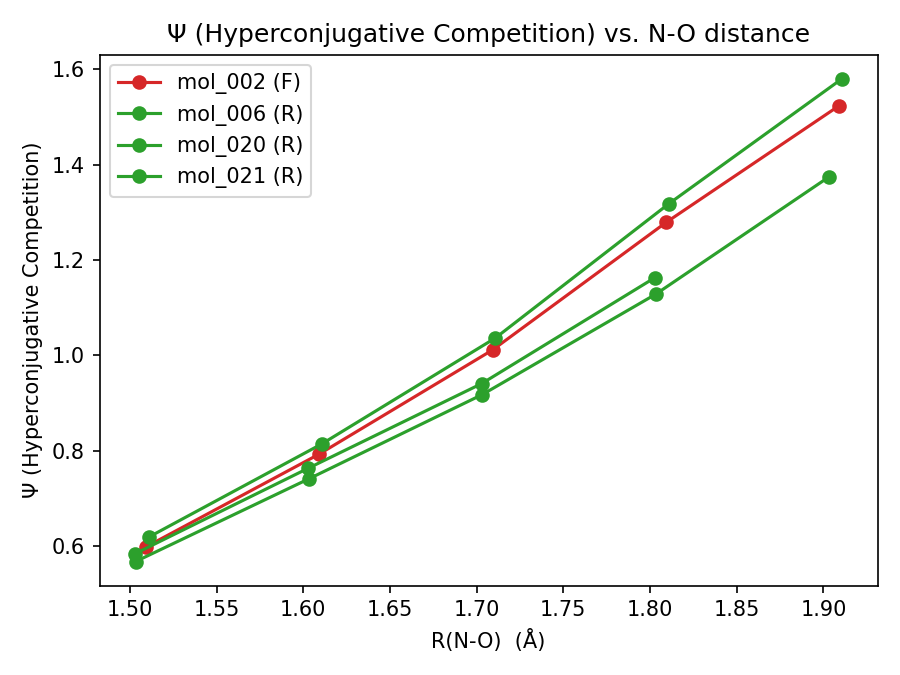
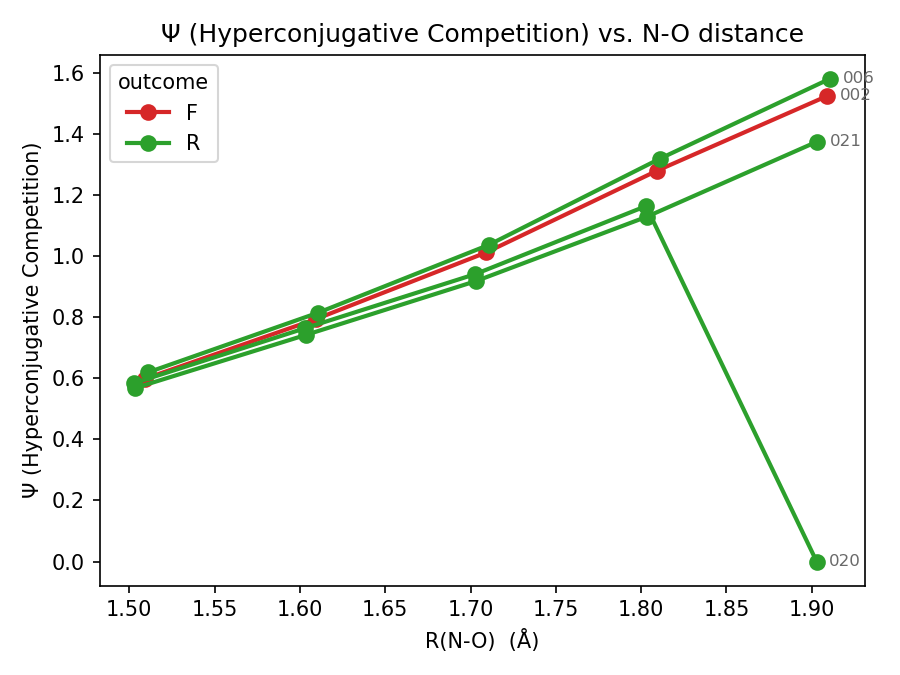
added mol_020 to plots

diff --git a/scripts/analysis/summarize_descriptors.py b/scripts/analysis/summarize_descriptors.py
@@ -18,7 +18,7 @@ from pathlib import Path
 import matplotlib.pyplot as plt
 
 from beckmann.config import DATA_INPUT, DATA_OUTPUT
-from beckmann.dft.descriptors import SERIES_STAGES
+from beckmann.dft.descriptors import resolve_series
 
 ANALYSIS_DIR = DATA_OUTPUT / "analysis"
 PLOTS_DIR    = ANALYSIS_DIR / "plots"
@@ -31,6 +31,10 @@ LABELS = {
     "w17max": "w17max  (rearrangement channel)",
     "w78max": "w78max  (fragmentation channel)",
 }
+# Color still encodes experimental outcome (R vs F) rather than substrate identity --
+# with dozens of substrates eventually, a distinct hue per line stops scaling long
+# before a 2-color R/F split does. Individual lines are told apart by a direct label
+# at the endpoint instead (see main()), not by color.
 OUTCOME_COLOR = {"R": "tab:green", "F": "tab:red"}
 
 
@@ -48,7 +52,7 @@ def _float_or_none(v):
 def load_series(mol: str, channel_rows: list[dict]) -> tuple[list[float], dict[str, list[float | None]]]:
     """R(N-O) values and per-descriptor y-values for the 5-point series, in SERIES_STAGES order."""
     by_stage = {row["stage"]: row for row in channel_rows if row["mol"] == mol}
-    series = [by_stage[s] for s in SERIES_STAGES if s in by_stage]
+    series = resolve_series(by_stage)
     r_values = [float(row["r_no"]) for row in series]
     y_by_descriptor = {d: [_float_or_none(row[d]) for row in series] for d in DESCRIPTORS}
     return r_values, y_by_descriptor
@@ -62,11 +66,11 @@ def find_wcnmax_extremum(mol: str, extraction_rows: list[dict]) -> dict | None:
     the only place which virtual MO achieved the max weight, and its orbital energy,
     are actually recorded.
     """
-    rows = [
-        r for r in extraction_rows
-        if r["mol"] == mol and r["channel"] == "cn" and r["stage"] in SERIES_STAGES
-        and r["weight"] not in (None, "", "None")
-    ]
+    by_stage = {
+        r["stage"]: r for r in extraction_rows
+        if r["mol"] == mol and r["channel"] == "cn" and r["weight"] not in (None, "", "None")
+    }
+    rows = resolve_series(by_stage)
     pts = [(float(r["R_NO"]), float(r["weight"]), r["MO_index"], r["epsilon_i_star"]) for r in rows]
     if len(pts) < 3:
         return None
@@ -100,6 +104,7 @@ def main() -> None:
     # ---- plots ----
     for descriptor in DESCRIPTORS:
         fig, ax = plt.subplots(figsize=(6, 4.5))
+        seen_outcomes = set()
         for mol in mols:
             r_values, y_by_descriptor = per_mol_series[mol]
             y_values = y_by_descriptor[descriptor]
@@ -110,12 +115,23 @@ def main() -> None:
             xs, ys = zip(*pts)
             mol_id = mol.split("_")[1]
             outcome = outcomes[f"mol_{mol_id}"]["exp_outcome"]
-            ax.plot(xs, ys, marker="o", label=f"mol_{mol_id} ({outcome})",
-                     color=OUTCOME_COLOR.get(outcome, "gray"))
+            color = OUTCOME_COLOR.get(outcome, "gray")
+            # One legend entry per outcome (R/F), not per molecule -- individual
+            # lines are identified by the direct label at their endpoint instead,
+            # so the legend stays 2 entries regardless of substrate count.
+            label = outcome if outcome not in seen_outcomes else None
+            seen_outcomes.add(outcome)
+            ax.plot(xs, ys, marker="o", markersize=7, linewidth=2, color=color, label=label)
+            # Direct label at the line's endpoint -- text token color (not the
+            # series color), per beckmann-dataviz: text never wears the data color.
+            ax.annotate(
+                mol_id, (xs[-1], ys[-1]), xytext=(6, 0), textcoords="offset points",
+                fontsize=8, color="dimgray", va="center",
+            )
         ax.set_xlabel("R(N-O)  (Å)")
         ax.set_ylabel(LABELS[descriptor])
         ax.set_title(f"{LABELS[descriptor]} vs. N-O distance")
-        ax.legend()
+        ax.legend(title="outcome")
         fig.tight_layout()
         out_path = PLOTS_DIR / f"{descriptor}.png"
         fig.savefig(out_path, dpi=150)

diff --git a/beckmann/dft/descriptors.py b/beckmann/dft/descriptors.py
@@ -154,14 +154,24 @@ def build_channel_descriptors(mol: str, mol_dir: Path, e2pert_rows: list[dict], 
     return out
 
 
-def compute_slopes(mol: str, channel_rows: list[dict]) -> dict:
-    """d/dR for psi, log_lambda, wcnmax, w17max, w78max over the 5-point series."""
-    by_stage = {row["stage"]: row for row in channel_rows if row["mol"] == mol}
+def resolve_series(by_stage: dict) -> list[dict]:
+    """Pick the 5-point R(N-O) series from a {stage: row} map, in SERIES_STAGES
+    order, substituting SERIES_FALLBACK (e.g. 'sp5_2' for 'scan_2') when the
+    primary stage is missing. Shared by compute_slopes() and
+    scripts/analysis/summarize_descriptors.py's plots so both draw from the
+    same points -- see JOB_ISSUES.md, mol_020_E for why the fallback exists."""
     series = []
     for s in SERIES_STAGES:
         key = s if s in by_stage else SERIES_FALLBACK.get(s)
         if key in by_stage:
             series.append(by_stage[key])
+    return series
+
+
+def compute_slopes(mol: str, channel_rows: list[dict]) -> dict:
+    """d/dR for psi, log_lambda, wcnmax, w17max, w78max over the 5-point series."""
+    by_stage = {row["stage"]: row for row in channel_rows if row["mol"] == mol}
+    series = resolve_series(by_stage)
     r_values = [float(row["r_no"]) for row in series]
 
     slopes = {"mol": mol, "n_points": len(series), "r_values": r_values}
